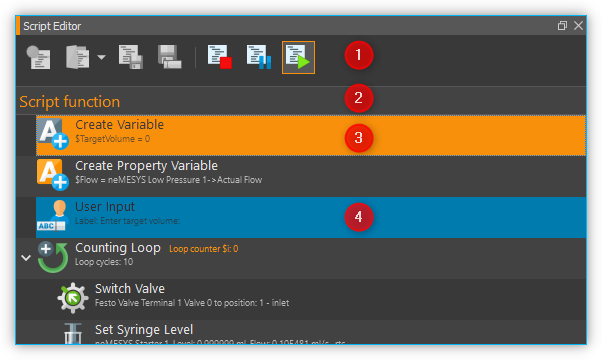
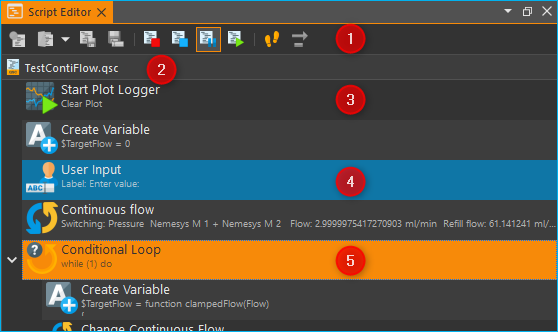
Added initial documentation for script single step mode

diff --git a/CETONI_Elements_Manual_EN/scriptingsystem_part1_EN/scriptingsystem_part1_EN.rst b/CETONI_Elements_Manual_EN/scriptingsystem_part1_EN/scriptingsystem_part1_EN.rst
@@ -85,11 +85,12 @@ following items are numbered in the figure below:
 
 .. rst-class:: guinums
 
-1. *Toolbar* – is for loading, saving, and controlling the sequence of
-   scripts.
-2. *Function tree* – shows a tree like program structure.
-3. The currently executed function is highlighted in green.
-4. When you select a function by clicking, it is highlighted blue.
+1. *Toolbar* – is for loading, saving, and running scripts.
+2. The header shows the script filename.
+3. *Function tree* – shows a tree like program structure.
+4. The currently executed function is highlighted in blue.
+5. When you select a function by clicking, it is highlighted in the selected
+   theme accent color (here orange)
 
 |Figure 4: Script editor panel|
 
@@ -165,6 +166,13 @@ Toolbar
 +-----------+---------------------------------------------------------+
 | |image24| | Starts the execution of a script or resumes a script    |
 |           | after an interruption.                                  |
++-----------+---------------------------------------------------------+
+| |stepping|| Activates single step operation for debugging scripts.  |
+|           | When single step operation is active, the script stops  |
+|           | after the execution of each command.                    |
++-----------+---------------------------------------------------------+
+| |execstep|| Click this button to trigger execution of next script   |
+|           | function in single step operation mode.                 |
 +-----------+---------------------------------------------------------+
 
 .. tip::
@@ -1131,4 +1139,9 @@ Complete the configuration by clicking on OK :guinum:`❸`
 .. |folder| image:: Pictures/folder.svg
    :width: 40
 
+.. |stepping| image:: Pictures/step.svg
+   :width: 40
+
+.. |execstep| image:: Pictures/single_step2.svg
+   :width: 40
 
